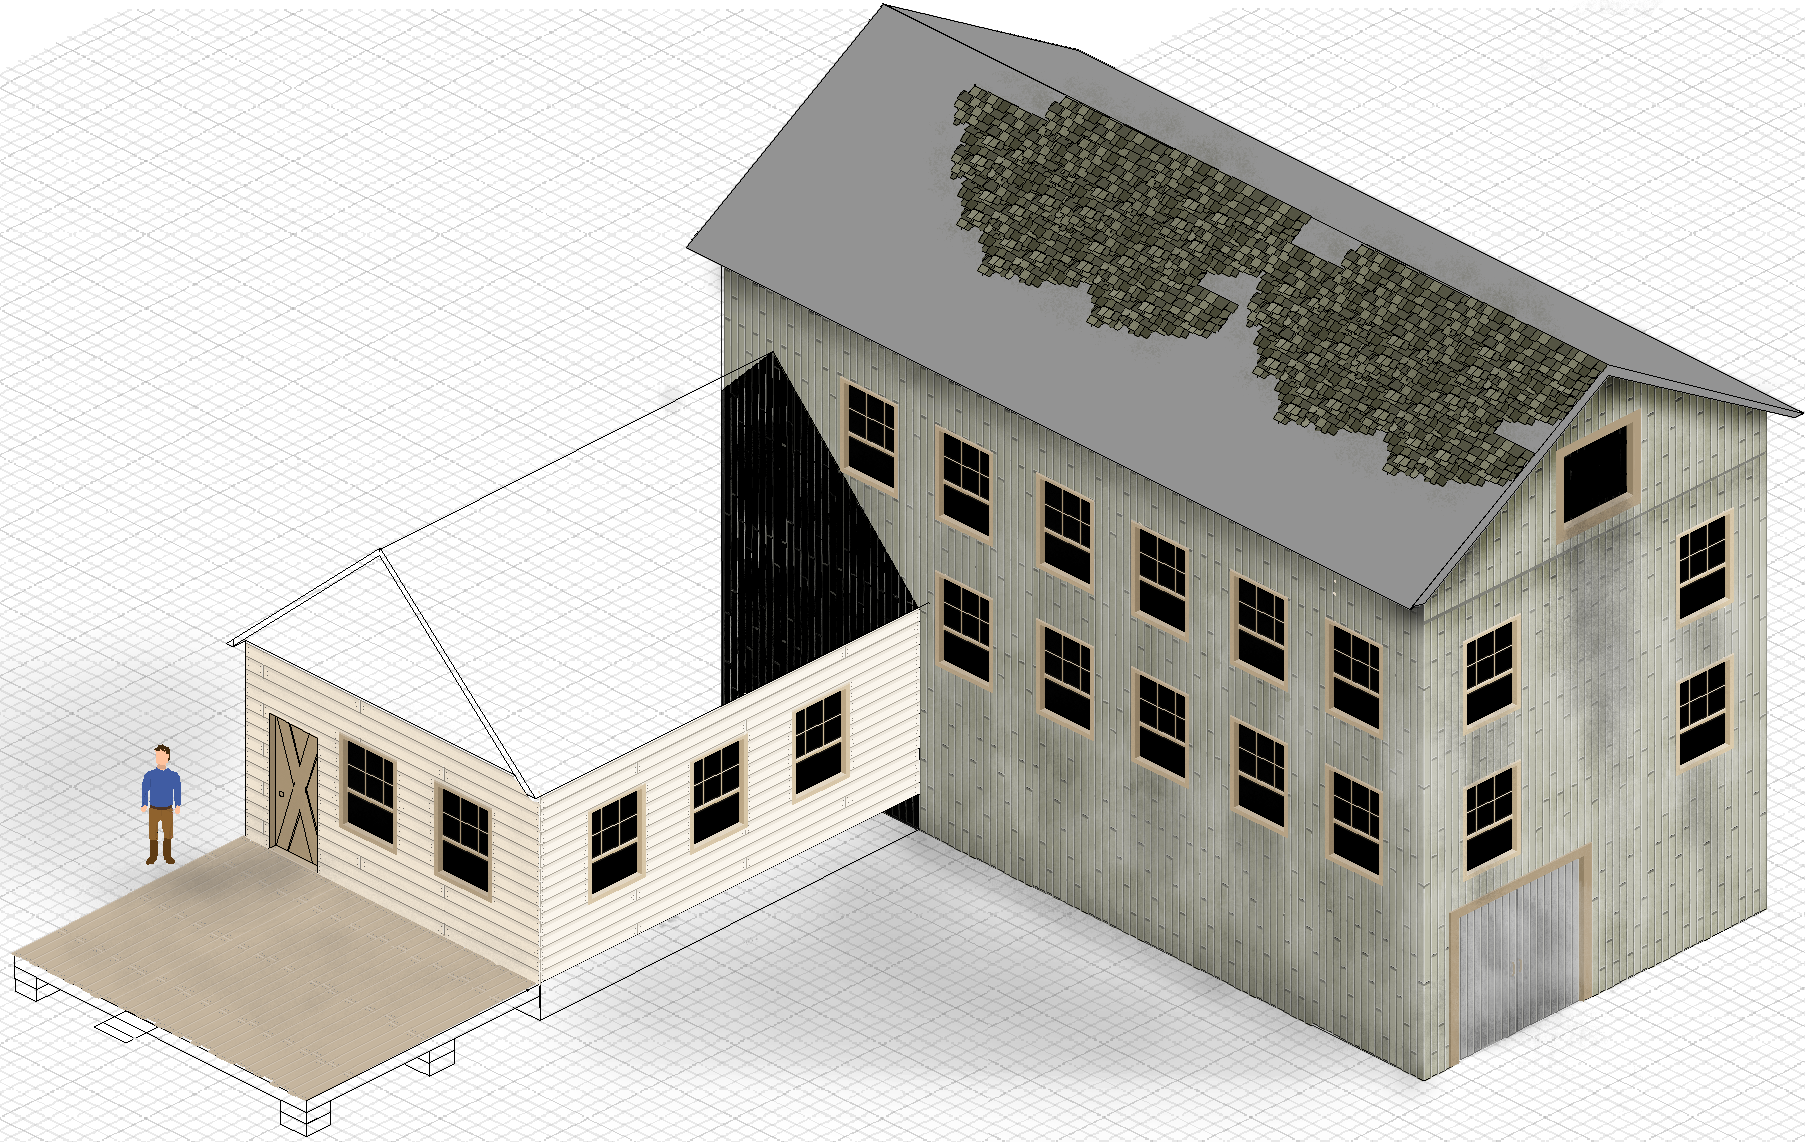
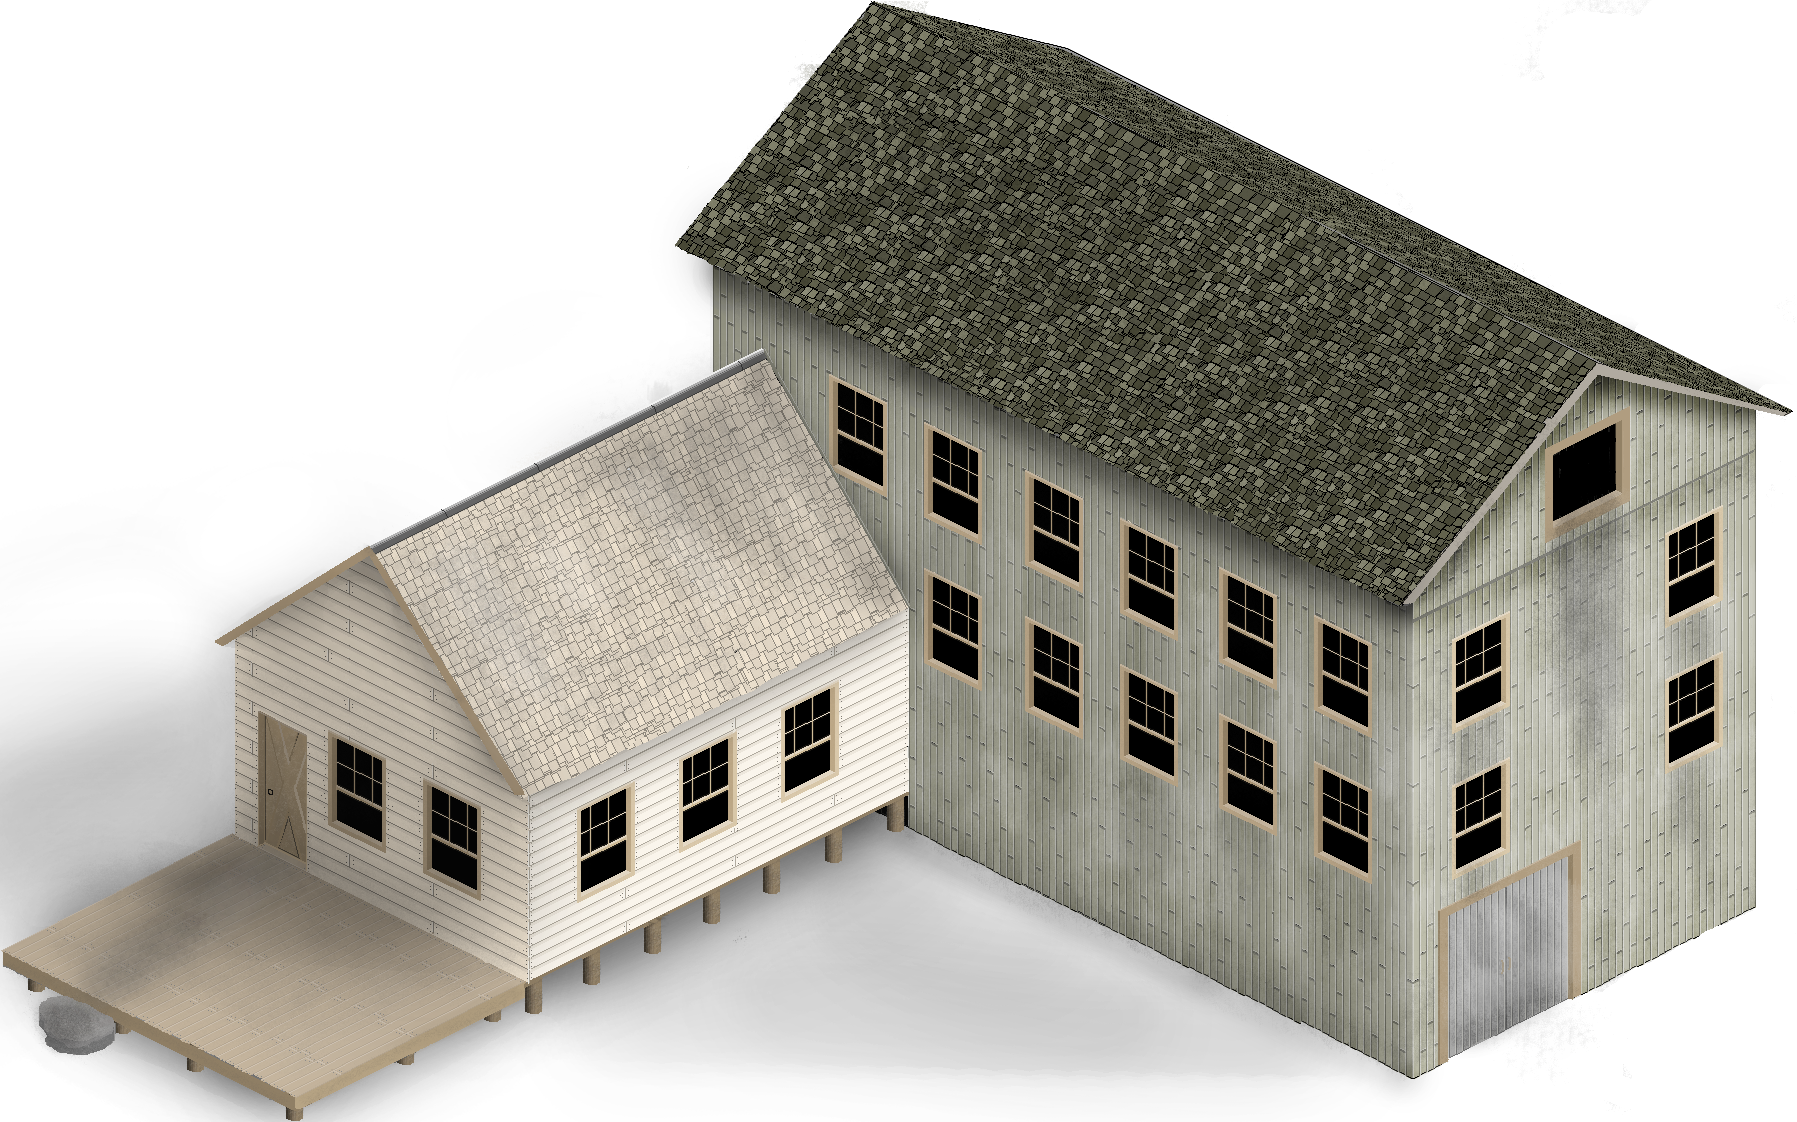
art and documentation

diff --git a/README.md b/README.md
@@ -51,25 +51,27 @@ docker run \
 - [ ] Fix jittery scrolling (at least fix layer shaking)
 - [ ] Large superblocks not drawing once far out of screen (maybe needs to be multiplied by scale when finding guards)
 - [ ] Fix opacity issue
+- [ ] Fix entity handler bug
 - [ ] Find happy scale medium
+- [ ] Keyboard input control
 - [ ] Try to make render smoother
+- [ ] Initial entity movement
+- [ ] Tilemap intersections
 - [ ] Each entity has an associated map-resource (the player is the only one used in tilemap render)
 - [ ] Entity manager associates map resource with player
 - [ ] Entity manager builds an entity-handler list
 - [ ] refactor core/-main
-- [ ] Don't always recompute spacial range
+- [ ] Don't always recompute spacial range (chunk size is constant)
 - [ ] Make entity draw handler efficient
 - [ ] Entities have their own maps and the tilemap render function takes the map of the entity to be drawn
 - [ ] Edge testing
 - [ ] Bundle tilemap config and add function for updating
 - [ ] Entity manager code
 - [ ] Entity decision formatting
-- [ ] Keyboard input control
 - [ ] Add server support to all updates made
 - [ ] Prevent image/file loads if headless server (this is important in several areas)
 - [ ] Calculate base layer tiles down at config startup sequence to clean up tilemap layer init fn
 - [ ] Height attribute for l1 layer blocks (and draw player at updated height)
-- [ ] Tilemap intersections
 - [ ] Pause menu in level1
 - [ ] Refactor temporary fixes to menu and load screens, improve code and reduce atomics
 - [ ] Fix menu options resolution and scrolling problem with up arrow

diff --git a/doc/intro.md b/doc/intro.md
@@ -14,6 +14,10 @@
 
 ## Technical Documentation
 
+## Resources
+
+![SAWMILL](https://github.com/jackHay22/upstream/blob/master/resources/tiles/poc_sawmill.png)
+
 ### Resource loading
 - At initialization of the gamestate manager, the load state is first started and then subsequent states are loaded in a new thread.
 ```clojure
